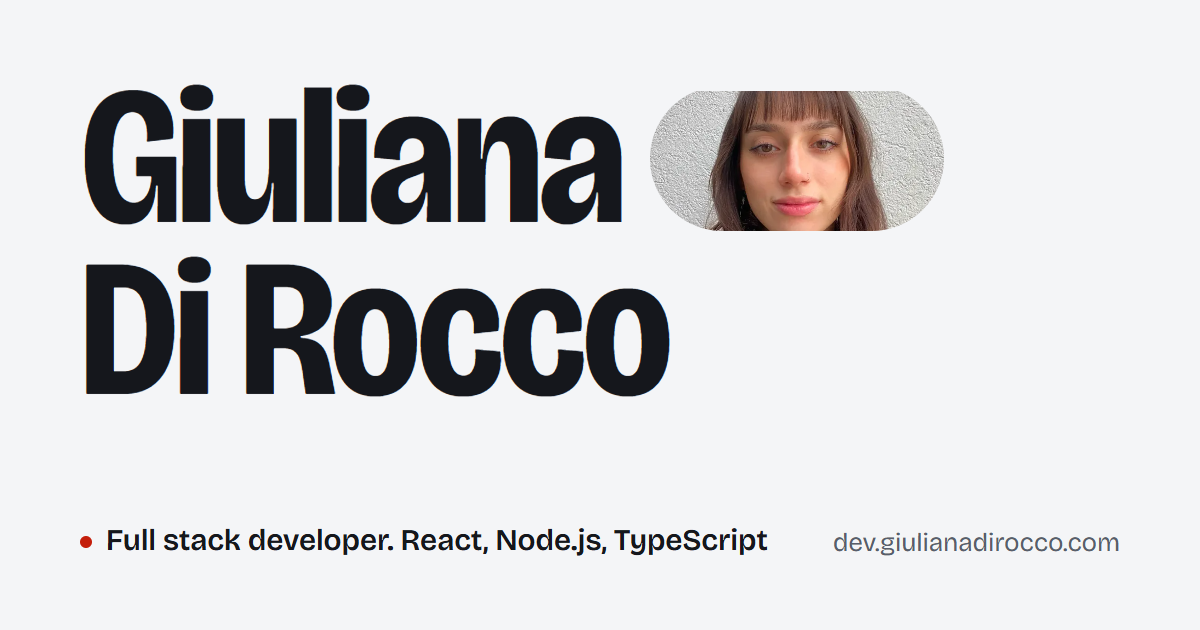
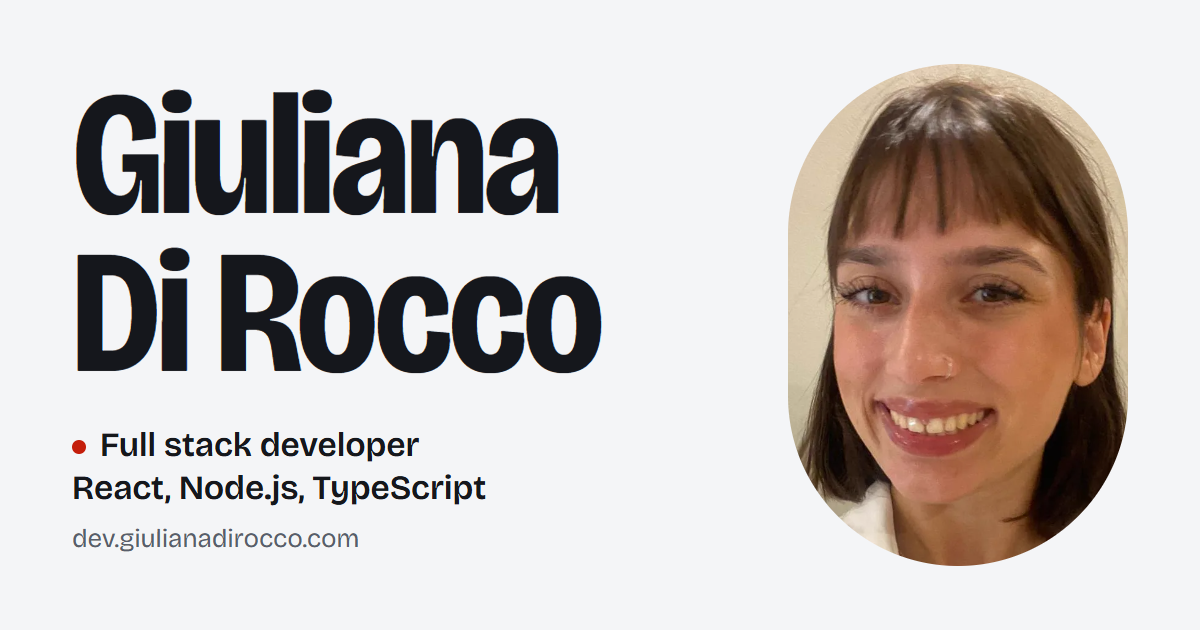
seo: imagen para compartir con la foto nueva y la cara más grande

diff --git a/index.html b/index.html
@@ -26,7 +26,7 @@
     <meta property="og:title" 
       content="Giuliana Di Rocco | Full Stack Developer" />
     <meta property="og:description" content="Full stack developer: React, Node.js, TypeScript. Co-founder of Costear. Open to full stack roles." />
-    <meta property="og:image" content="https://dev.giulianadirocco.com/og-image.png" />
+    <meta property="og:image" content="https://dev.giulianadirocco.com/og-image.png?v=2" />
     <meta property="og:image:width" content="1200" />
     <meta property="og:image:height" content="630" />
 
@@ -36,7 +36,7 @@
     <meta name="twitter:title" 
       content="Giuliana Di Rocco | Full Stack Developer" />
     <meta name="twitter:description" content="Full stack developer: React, Node.js, TypeScript. Co-founder of Costear. Open to full stack roles." />
-    <meta name="twitter:image" content="https://dev.giulianadirocco.com/og-image.png" />
+    <meta name="twitter:image" content="https://dev.giulianadirocco.com/og-image.png?v=2" />
 
     <!-- Fonts -->
     <link rel="preload" href="/fonts/bricolage-latin.woff2" as="font" type="font/woff2" crossorigin>
